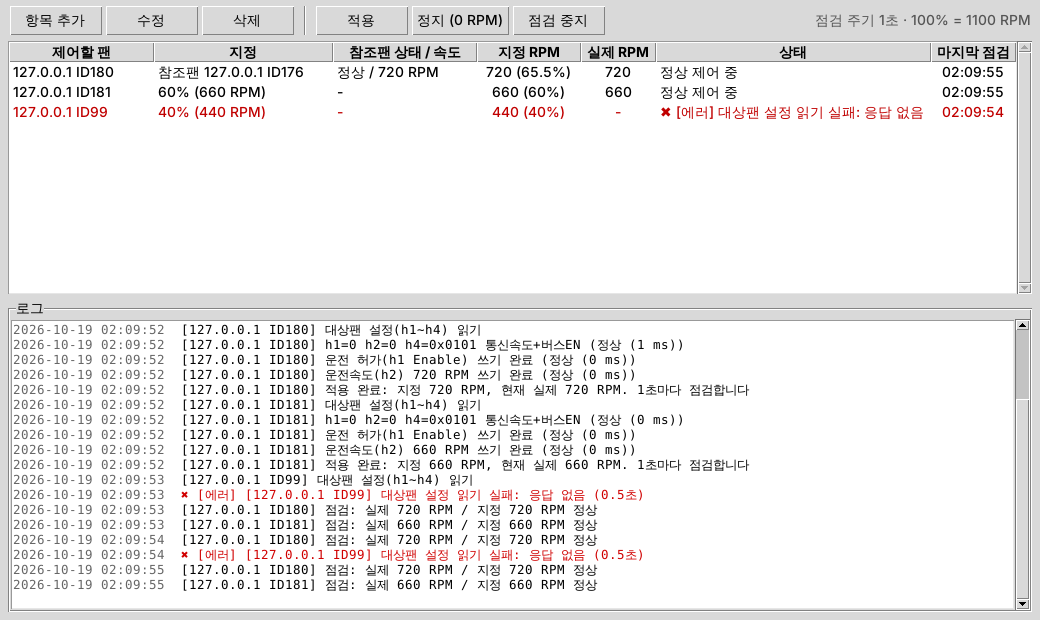
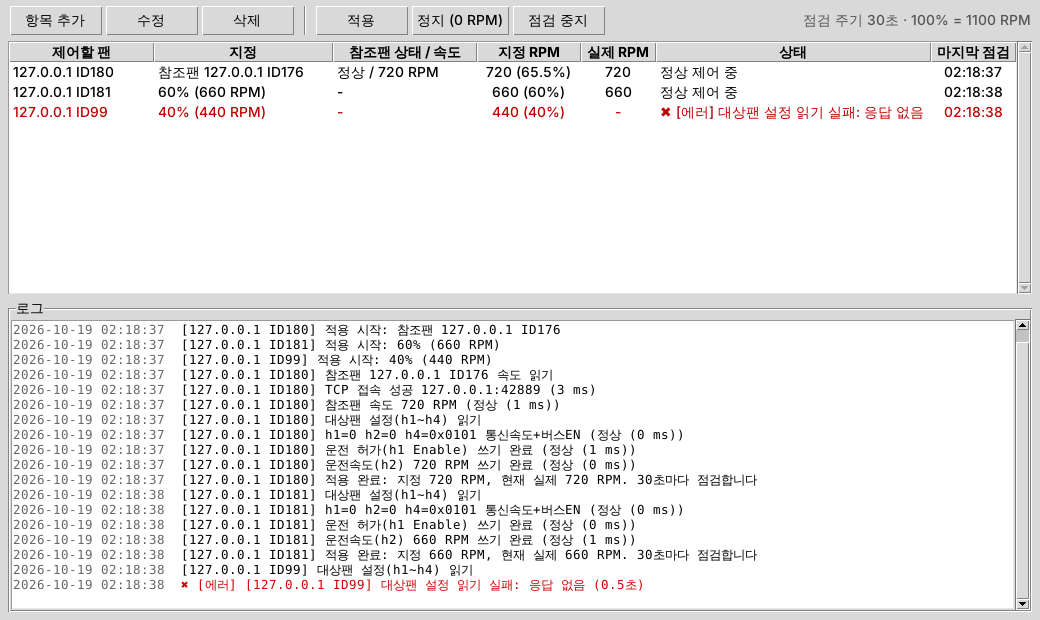
미니 제어기: 점검 주기 30초, 정상 점검 결과는 목록에만 표시
- 정기 점검 주기 5초 -> 30초
- 정상 점검 결과는 로그에 남기지 않음 (목록의 실제 RPM·상태·마지막 점검 시각으로만 표시)
- 에러·주의 뒤 처음 정상이 되면 '정상으로 돌아옴' 을 한 번 기록
- 매뉴얼 13장, 화면 그림, 테스트 갱신

Claude-Session: https://claude.ai/code/session_01PEsqbB6cYMkeqgKHyNdsYX

Changed region(s): [[0.1231, 0.521, 0.7385, 0.95], [0.8923, 0.0919, 0.9846, 0.2145], [0.7692, 0.0, 0.8615, 0.0613]]

diff --git a/tests/test_mini_control.py b/tests/test_mini_control.py
@@ -178,7 +178,8 @@ def test_ui_flow(M, gw, app):
     assert pump(root, lambda: gw.ecb_speed(180) == 500 and it.target == 500)
     text = _log(a)
     assert "[에러] [%s ID99]" % gw.host in text                    # 없는 모터 -> 빨간 [에러]
-    assert "적용 완료" in text and "점검:" in text
+    assert "적용 완료" in text and "점검:" not in text                   # 정상 점검 결과는 로그에 없음
+    assert it.checked != "-"                                              # 목록에는 마지막 점검 시각 표시
     first = text.splitlines()[0]
     assert first[:4].isdigit() and first[10] == " " and first[13] == ":"   # 맨 앞 시간
     ranges = a.logbox.tag_ranges("error")
@@ -193,3 +194,21 @@ def test_ui_flow(M, gw, app):
     pump(root, lambda: False, timeout=1.0)
     assert len(gw.writes) == n
     assert os.path.exists(os.path.join(M.LOG_DIR, time.strftime("mini_control_%Y%m%d.log")))
+
+
+def test_ui_recovery_logged_once(M, gw, app):
+    a, root = app
+    gw.add_ecblue(180, analog_rpm=0, h4=0x0101)
+    gw.add_ecblue(176, analog_rpm=600)
+    a.items = [M.Item(gw.host, 180, "ref", 0, gw.host, 176)]
+    a.refresh()
+    a.tree.selection_set("0")
+    a.on_apply()
+    it = a.items[0]
+    assert pump(root, lambda: it.state == "정상 제어 중")
+    saved = gw.ecb.pop(176)                                               # 참조팬 응답 없음 -> 에러
+    assert pump(root, lambda: it.level == M.ERROR)
+    gw.ecb[176] = saved                                                   # 복구 -> '정상으로 돌아옴' 한 번
+    assert pump(root, lambda: it.level == M.INFO)
+    pump(root, lambda: False, timeout=1.0)                                # 이후 정상 점검 여러 번
+    assert _log(a).count("정상으로 돌아옴") == 1 and "점검:" not in _log(a)

diff --git a/tools/mini_control.py b/tools/mini_control.py
@@ -36,7 +36,7 @@ DEFAULT_IP = "172.27.0.116"
 PORT = 502
 MAX_RPM = 1100
 ID_MIN, ID_MAX = 1, 247
-CHECK_INTERVAL_MS = 5000          # 정기 점검 주기
+CHECK_INTERVAL_MS = 30000         # 정기 점검 주기 (30초)
 MODE_WRITE_MAX_TRIES = 3          # h4(영구저장) 쓰기 시도 한도 (실행 1회당, 항목별)
 SPEED_TOLERANCE = 30              # 실제 속도가 지정과 이만큼 넘게 차이 나면 '주의' (RPM)
 
@@ -654,9 +654,10 @@ class MiniControlApp:
                 if not first:
                     self.log(WARN, f"점검: 실제 {it.rpm} RPM, 지정 {it.target} RPM (차이 {diff})", it)
             else:
+                # 정상 점검 결과는 목록에만 표시. 에러/주의 상태에서 돌아온 때만 한 번 기록
+                if not first and it.level in (ERROR, WARN):
+                    self.log(INFO, f"정상으로 돌아옴: 실제 {it.rpm} RPM / 지정 {it.target} RPM", it)
                 it.state, it.level = "정상 제어 중", INFO
-                if not first:
-                    self.log(INFO, f"점검: 실제 {it.rpm} RPM / 지정 {it.target} RPM 정상", it)
             if first:
                 self.log(INFO, f"적용 완료: 지정 {it.target} RPM, 현재 실제 {it.rpm} RPM. "
                                f"{CHECK_INTERVAL_MS // 1000}초마다 점검합니다", it)
